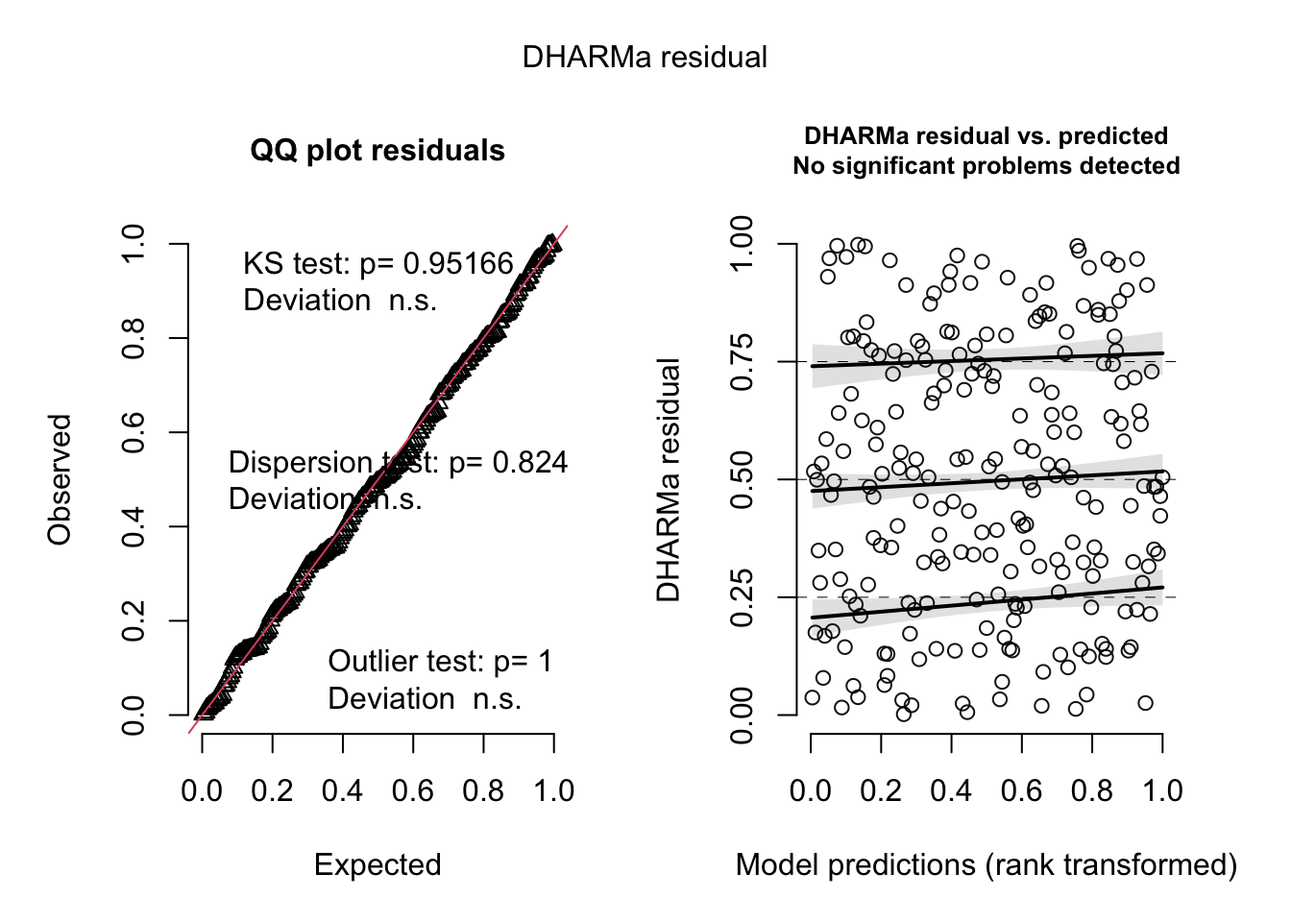
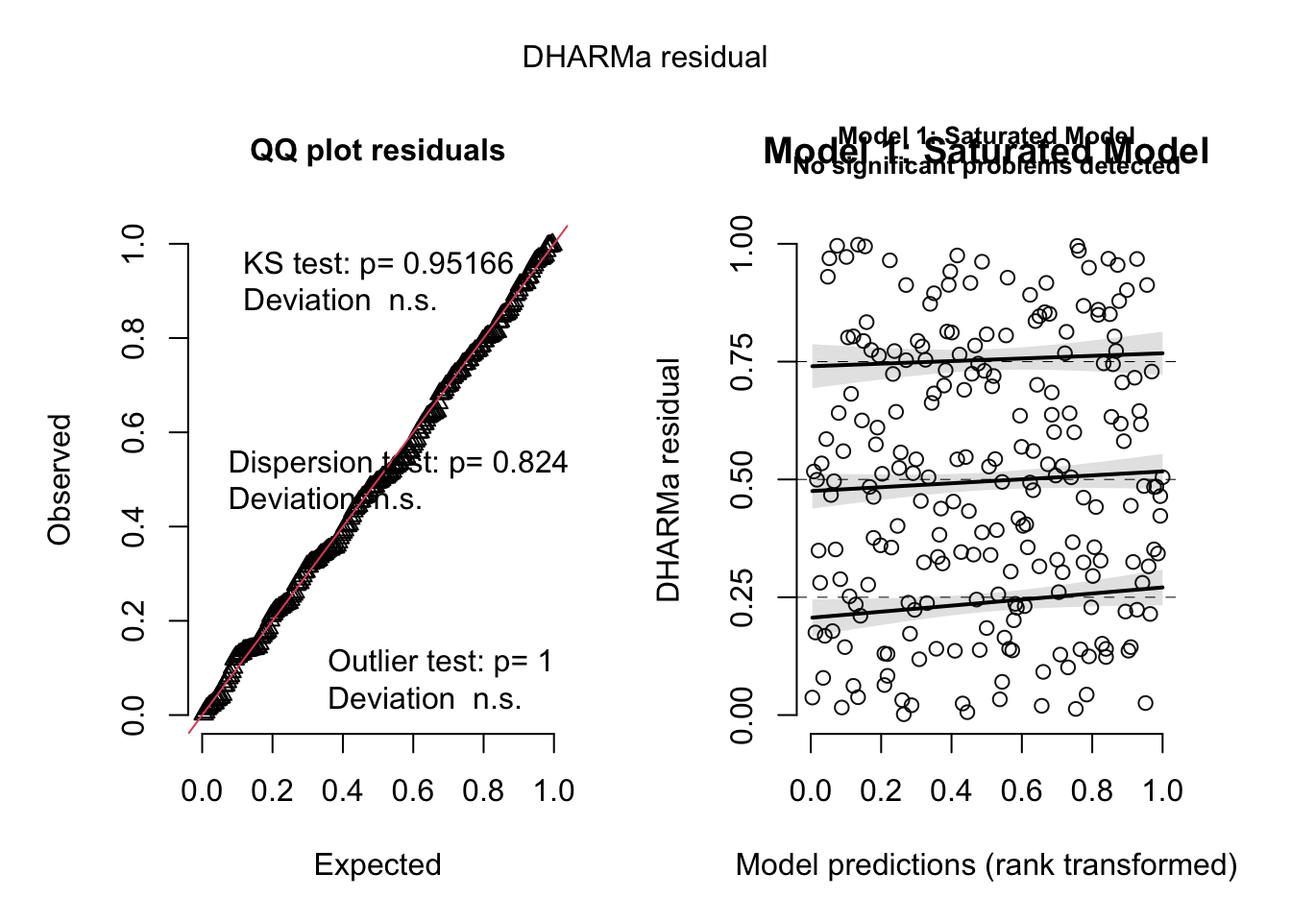
added observations to problem three visualization

Changed region(s): [[0.5938, 0.125, 0.9375, 0.1875]]

diff --git a/Code/index.html b/Code/index.html
@@ -7,7 +7,7 @@
 <meta name="viewport" content="width=device-width, initial-scale=1.0, user-scalable=yes">
 
 <meta name="author" content="Wyatt Erickson">
-<meta name="dcterms.date" content="2025-06-08">
+<meta name="dcterms.date" content="2025-06-10">
 
 <title>ENVS-193DS Final</title>
 <style>
@@ -134,7 +134,7 @@ pre > code.sourceCode > span > a:first-child::before { text-decoration: underlin
     <div>
     <div class="quarto-title-meta-heading">Published</div>
     <div class="quarto-title-meta-contents">
-      <p class="date">June 8, 2025</p>
+      <p class="date">June 10, 2025</p>
     </div>
   </div>
   
@@ -202,11 +202,11 @@ pre > code.sourceCode > span > a:first-child::before { text-decoration: underlin
 <pre><code># A tibble: 5 × 3
   year  month mean_monthly_sst
   &lt;fct&gt; &lt;ord&gt;            &lt;dbl&gt;
-1 2019  Oct               17.1
-2 2021  Jun               15.9
-3 2023  Nov               16.8
-4 2021  May               14.4
-5 2018  May               13.6</code></pre>
+1 2019  Jan               14.7
+2 2021  Sep               17.1
+3 2021  Jun               15.9
+4 2018  Apr               12.8
+5 2019  Sep               18.8</code></pre>
 </div>
 <div class="sourceCode cell-code" id="cb4"><pre class="sourceCode r code-with-copy"><code class="sourceCode r"><span id="cb4-1"><a href="#cb4-1" aria-hidden="true" tabindex="-1"></a><span class="fu">str</span>(sst_clean) <span class="co"># show data frame structure</span></span></code><button title="Copy to Clipboard" class="code-copy-button"><i class="bi"></i></button></pre></div>
 <div class="cell-output cell-output-stdout">
@@ -345,7 +345,7 @@ pre > code.sourceCode > span > a:first-child::before { text-decoration: underlin
 <h3 class="anchored" data-anchor-id="f.-check-the-diagnostics">f.&nbsp;Check the Diagnostics</h3>
 <div class="cell">
 <div class="sourceCode cell-code" id="cb8"><pre class="sourceCode r code-with-copy"><code class="sourceCode r"><span id="cb8-1"><a href="#cb8-1" aria-hidden="true" tabindex="-1"></a><span class="co"># show residual plots</span></span>
-<span id="cb8-2"><a href="#cb8-2" aria-hidden="true" tabindex="-1"></a><span class="fu">plot</span>(<span class="fu">simulateResiduals</span>(model0)) <span class="co"># residuals for null model</span></span></code><button title="Copy to Clipboard" class="code-copy-button"><i class="bi"></i></button></pre></div>
+<span id="cb8-2"><a href="#cb8-2" aria-hidden="true" tabindex="-1"></a><span class="fu">plot</span>(<span class="fu">simulateResiduals</span>(model0), <span class="at">main =</span> <span class="st">"Model 0: Null Model"</span>) <span class="co"># residuals for null model</span></span></code><button title="Copy to Clipboard" class="code-copy-button"><i class="bi"></i></button></pre></div>
 <div class="cell-output-display">
 <div>
 <figure class="figure">
@@ -353,7 +353,7 @@ pre > code.sourceCode > span > a:first-child::before { text-decoration: underlin
 </figure>
 </div>
 </div>
-<div class="sourceCode cell-code" id="cb9"><pre class="sourceCode r code-with-copy"><code class="sourceCode r"><span id="cb9-1"><a href="#cb9-1" aria-hidden="true" tabindex="-1"></a><span class="fu">plot</span>(<span class="fu">simulateResiduals</span>(model1)) <span class="co"># residuals for saturated model</span></span></code><button title="Copy to Clipboard" class="code-copy-button"><i class="bi"></i></button></pre></div>
+<div class="sourceCode cell-code" id="cb9"><pre class="sourceCode r code-with-copy"><code class="sourceCode r"><span id="cb9-1"><a href="#cb9-1" aria-hidden="true" tabindex="-1"></a><span class="fu">plot</span>(<span class="fu">simulateResiduals</span>(model1), <span class="at">main =</span> <span class="st">"Model 1: Saturated Model"</span>) <span class="co"># residuals for saturated model</span></span></code><button title="Copy to Clipboard" class="code-copy-button"><i class="bi"></i></button></pre></div>
 <div class="cell-output-display">
 <div>
 <figure class="figure">
@@ -361,7 +361,7 @@ pre > code.sourceCode > span > a:first-child::before { text-decoration: underlin
 </figure>
 </div>
 </div>
-<div class="sourceCode cell-code" id="cb10"><pre class="sourceCode r code-with-copy"><code class="sourceCode r"><span id="cb10-1"><a href="#cb10-1" aria-hidden="true" tabindex="-1"></a><span class="fu">plot</span>(<span class="fu">simulateResiduals</span>(model2)) <span class="co"># residuals for season predictor only model</span></span></code><button title="Copy to Clipboard" class="code-copy-button"><i class="bi"></i></button></pre></div>
+<div class="sourceCode cell-code" id="cb10"><pre class="sourceCode r code-with-copy"><code class="sourceCode r"><span id="cb10-1"><a href="#cb10-1" aria-hidden="true" tabindex="-1"></a><span class="fu">plot</span>(<span class="fu">simulateResiduals</span>(model2), <span class="at">main =</span> <span class="st">"Model 2: Season Predictor Only"</span>) <span class="co"># residuals for season predictor only model</span></span></code><button title="Copy to Clipboard" class="code-copy-button"><i class="bi"></i></button></pre></div>
 <div class="cell-output-display">
 <div>
 <figure class="figure">
@@ -369,7 +369,7 @@ pre > code.sourceCode > span > a:first-child::before { text-decoration: underlin
 </figure>
 </div>
 </div>
-<div class="sourceCode cell-code" id="cb11"><pre class="sourceCode r code-with-copy"><code class="sourceCode r"><span id="cb11-1"><a href="#cb11-1" aria-hidden="true" tabindex="-1"></a><span class="fu">plot</span>(<span class="fu">simulateResiduals</span>(model3)) <span class="co"># residuals for forest distance only model</span></span></code><button title="Copy to Clipboard" class="code-copy-button"><i class="bi"></i></button></pre></div>
+<div class="sourceCode cell-code" id="cb11"><pre class="sourceCode r code-with-copy"><code class="sourceCode r"><span id="cb11-1"><a href="#cb11-1" aria-hidden="true" tabindex="-1"></a><span class="fu">plot</span>(<span class="fu">simulateResiduals</span>(model3), <span class="at">main =</span> <span class="st">"Model 3: Forest Distance Predictor Only"</span>) <span class="co"># residuals for forest distance only model</span></span></code><button title="Copy to Clipboard" class="code-copy-button"><i class="bi"></i></button></pre></div>
 <div class="cell-output-display">
 <div>
 <figure class="figure">
@@ -402,41 +402,59 @@ model0  1 238.8318</code></pre>
 <div class="cell">
 <div class="sourceCode cell-code" id="cb14"><pre class="sourceCode r code-with-copy"><code class="sourceCode r"><span id="cb14-1"><a href="#cb14-1" aria-hidden="true" tabindex="-1"></a>sp_preds <span class="ot">&lt;-</span> <span class="fu">ggpredict</span>(</span>
 <span id="cb14-2"><a href="#cb14-2" aria-hidden="true" tabindex="-1"></a>  model1,     <span class="co"># choose which model to use</span></span>
-<span id="cb14-3"><a href="#cb14-3" aria-hidden="true" tabindex="-1"></a>  <span class="at">terms =</span> <span class="fu">c</span>(<span class="st">"edge_distance"</span>,<span class="st">"season"</span>) <span class="co"># select predictors</span></span>
-<span id="cb14-4"><a href="#cb14-4" aria-hidden="true" tabindex="-1"></a>)</span>
-<span id="cb14-5"><a href="#cb14-5" aria-hidden="true" tabindex="-1"></a></span>
-<span id="cb14-6"><a href="#cb14-6" aria-hidden="true" tabindex="-1"></a>sp_preds_clean <span class="ot">&lt;-</span> sp_preds <span class="sc">|&gt;</span> <span class="co"># clean column names</span></span>
-<span id="cb14-7"><a href="#cb14-7" aria-hidden="true" tabindex="-1"></a>  <span class="fu">clean_names</span>()</span>
+<span id="cb14-3"><a href="#cb14-3" aria-hidden="true" tabindex="-1"></a>  <span class="at">terms =</span> <span class="fu">c</span>(<span class="st">"edge_distance"</span>,<span class="st">"season"</span>)) <span class="co"># select predictors</span></span>
+<span id="cb14-4"><a href="#cb14-4" aria-hidden="true" tabindex="-1"></a>sp_preds_clean <span class="ot">&lt;-</span> sp_preds <span class="sc">|&gt;</span> <span class="co"># clean column names</span></span>
+<span id="cb14-5"><a href="#cb14-5" aria-hidden="true" tabindex="-1"></a>  <span class="fu">clean_names</span>() <span class="sc">|&gt;</span> </span>
+<span id="cb14-6"><a href="#cb14-6" aria-hidden="true" tabindex="-1"></a>  <span class="fu">rename</span>(<span class="at">season =</span> group)</span>
+<span id="cb14-7"><a href="#cb14-7" aria-hidden="true" tabindex="-1"></a></span>
 <span id="cb14-8"><a href="#cb14-8" aria-hidden="true" tabindex="-1"></a></span>
-<span id="cb14-9"><a href="#cb14-9" aria-hidden="true" tabindex="-1"></a><span class="fu">ggplot</span>(sp_preds_clean, <span class="fu">aes</span>(<span class="at">x =</span> x,   <span class="co"># create plot and define axis as probability and distance from forest edge</span></span>
-<span id="cb14-10"><a href="#cb14-10" aria-hidden="true" tabindex="-1"></a>                     <span class="at">y =</span> predicted <span class="sc">*</span> <span class="dv">100</span>,  <span class="co"># y axis is predicted probability x 100 (% format)</span></span>
-<span id="cb14-11"><a href="#cb14-11" aria-hidden="true" tabindex="-1"></a>                     <span class="at">color =</span> group, <span class="co"># color by group</span></span>
-<span id="cb14-12"><a href="#cb14-12" aria-hidden="true" tabindex="-1"></a>                     <span class="at">fill =</span> group)) <span class="sc">+</span> <span class="co"># fill color by group</span></span>
-<span id="cb14-13"><a href="#cb14-13" aria-hidden="true" tabindex="-1"></a>   <span class="fu">geom_ribbon</span>(<span class="at">data =</span> sp_preds_clean, <span class="at">alpha =</span> <span class="fl">0.2</span>, <span class="at">color =</span> <span class="cn">NA</span>,</span>
-<span id="cb14-14"><a href="#cb14-14" aria-hidden="true" tabindex="-1"></a>              <span class="fu">aes</span>(<span class="at">ymin =</span> conf_low <span class="sc">*</span> <span class="dv">100</span>, <span class="co"># confidence interval boundary, adjusted for %</span></span>
-<span id="cb14-15"><a href="#cb14-15" aria-hidden="true" tabindex="-1"></a>                  <span class="at">ymax =</span> conf_high <span class="sc">*</span> <span class="dv">100</span>, <span class="co"># confidence interval boundary, adjusted for %</span></span>
-<span id="cb14-16"><a href="#cb14-16" aria-hidden="true" tabindex="-1"></a>                  <span class="at">fill =</span> group</span>
-<span id="cb14-17"><a href="#cb14-17" aria-hidden="true" tabindex="-1"></a>                  )) <span class="sc">+</span></span>
-<span id="cb14-18"><a href="#cb14-18" aria-hidden="true" tabindex="-1"></a>   <span class="fu">geom_point</span>(<span class="at">size =</span> <span class="fl">1.5</span>, <span class="co"># add circular points</span></span>
-<span id="cb14-19"><a href="#cb14-19" aria-hidden="true" tabindex="-1"></a>             <span class="at">shape =</span> <span class="dv">16</span>) <span class="sc">+</span></span>
-<span id="cb14-20"><a href="#cb14-20" aria-hidden="true" tabindex="-1"></a>   <span class="fu">geom_line</span>(<span class="at">size =</span> <span class="dv">1</span>) <span class="sc">+</span> <span class="co"># add line connecting points</span></span>
-<span id="cb14-21"><a href="#cb14-21" aria-hidden="true" tabindex="-1"></a>   <span class="fu">labs</span>(</span>
-<span id="cb14-22"><a href="#cb14-22" aria-hidden="true" tabindex="-1"></a>     <span class="at">x =</span> <span class="st">"Distance From the Forest Edge (meters)"</span>, <span class="co"># set x axis</span></span>
-<span id="cb14-23"><a href="#cb14-23" aria-hidden="true" tabindex="-1"></a>     <span class="at">y =</span> <span class="st">"Probability of Swift Parrot Occupying Nest Box (%)"</span>, <span class="co"># set y axis</span></span>
-<span id="cb14-24"><a href="#cb14-24" aria-hidden="true" tabindex="-1"></a>     <span class="at">color =</span> <span class="st">"Season"</span>, <span class="co"># set legend title</span></span>
-<span id="cb14-25"><a href="#cb14-25" aria-hidden="true" tabindex="-1"></a>     <span class="at">fill =</span> <span class="st">"Season"</span> <span class="co"># set legend title</span></span>
-<span id="cb14-26"><a href="#cb14-26" aria-hidden="true" tabindex="-1"></a>   ) <span class="sc">+</span></span>
-<span id="cb14-27"><a href="#cb14-27" aria-hidden="true" tabindex="-1"></a>   <span class="fu">scale_color_manual</span>(<span class="at">values =</span> <span class="fu">c</span>(  <span class="co"># set colors for lines and points</span></span>
-<span id="cb14-28"><a href="#cb14-28" aria-hidden="true" tabindex="-1"></a>    <span class="st">"2016"</span> <span class="ot">=</span> <span class="st">"#008000"</span>,</span>
-<span id="cb14-29"><a href="#cb14-29" aria-hidden="true" tabindex="-1"></a>    <span class="st">"2019"</span> <span class="ot">=</span> <span class="st">"#B7410E"</span>)) <span class="sc">+</span> </span>
-<span id="cb14-30"><a href="#cb14-30" aria-hidden="true" tabindex="-1"></a>   <span class="fu">scale_fill_manual</span>(<span class="at">values =</span> <span class="fu">c</span>(  <span class="co"># set colors for CI ribbon</span></span>
-<span id="cb14-31"><a href="#cb14-31" aria-hidden="true" tabindex="-1"></a>    <span class="st">"2016"</span> <span class="ot">=</span> <span class="st">"#008000"</span>,</span>
-<span id="cb14-32"><a href="#cb14-32" aria-hidden="true" tabindex="-1"></a>    <span class="st">"2019"</span> <span class="ot">=</span> <span class="st">"#B7410E"</span>)) <span class="sc">+</span> </span>
-<span id="cb14-33"><a href="#cb14-33" aria-hidden="true" tabindex="-1"></a>   <span class="fu">theme_bw</span>() <span class="sc">+</span> <span class="co"># set theme</span></span>
-<span id="cb14-34"><a href="#cb14-34" aria-hidden="true" tabindex="-1"></a>   <span class="fu">theme</span>(  <span class="co"># remove background and panel grids</span></span>
-<span id="cb14-35"><a href="#cb14-35" aria-hidden="true" tabindex="-1"></a>     <span class="at">panel.background =</span> <span class="fu">element_blank</span>(),</span>
-<span id="cb14-36"><a href="#cb14-36" aria-hidden="true" tabindex="-1"></a>     <span class="at">panel.grid =</span> <span class="fu">element_blank</span>()</span>
-<span id="cb14-37"><a href="#cb14-37" aria-hidden="true" tabindex="-1"></a>   )</span></code><button title="Copy to Clipboard" class="code-copy-button"><i class="bi"></i></button></pre></div>
+<span id="cb14-9"><a href="#cb14-9" aria-hidden="true" tabindex="-1"></a><span class="co"># code to include observed data for 2016 as underlying data</span></span>
+<span id="cb14-10"><a href="#cb14-10" aria-hidden="true" tabindex="-1"></a>observations_2016 <span class="ot">&lt;-</span> clean_nest_boxes <span class="sc">|&gt;</span>   <span class="co"># create new data frame to view data points of interest</span></span>
+<span id="cb14-11"><a href="#cb14-11" aria-hidden="true" tabindex="-1"></a>  <span class="fu">filter</span>(sp <span class="sc">==</span> <span class="dv">1</span>, season <span class="sc">==</span> <span class="st">"2016"</span>)  <span class="co"># only select 2016 observations where swift parrot was present</span></span>
+<span id="cb14-12"><a href="#cb14-12" aria-hidden="true" tabindex="-1"></a>observations_2016_prob <span class="ot">&lt;-</span> <span class="fu">ggpredict</span>(model1,    <span class="co"># running observed 2016 distances through model</span></span>
+<span id="cb14-13"><a href="#cb14-13" aria-hidden="true" tabindex="-1"></a>                 <span class="at">terms =</span> <span class="fu">c</span>(<span class="st">"edge_distance [715,735,145,105,416,435,355,296,355,392,476,259,277,278,183,218,695,745,48,122,71,190,253,270,228,282,115,114,167]"</span>, <span class="st">"season"</span> )) <span class="sc">|&gt;</span> <span class="co"># use all observed distances, n = small enough where I can type in each individually</span></span>
+<span id="cb14-14"><a href="#cb14-14" aria-hidden="true" tabindex="-1"></a>  <span class="fu">filter</span>(group <span class="sc">==</span> <span class="st">"2016"</span>) <span class="sc">|&gt;</span> <span class="co"># only include 2016 probabilities, to not plot points that were not seen in the field</span></span>
+<span id="cb14-15"><a href="#cb14-15" aria-hidden="true" tabindex="-1"></a>  <span class="fu">rename</span>(<span class="at">season =</span> group) <span class="co"># rename group column to be included in ggplot</span></span>
+<span id="cb14-16"><a href="#cb14-16" aria-hidden="true" tabindex="-1"></a></span>
+<span id="cb14-17"><a href="#cb14-17" aria-hidden="true" tabindex="-1"></a><span class="co"># code to include observed data for 2019 as underlying data</span></span>
+<span id="cb14-18"><a href="#cb14-18" aria-hidden="true" tabindex="-1"></a>observations_2019 <span class="ot">&lt;-</span> clean_nest_boxes <span class="sc">|&gt;</span>  <span class="co"># create new data frame</span></span>
+<span id="cb14-19"><a href="#cb14-19" aria-hidden="true" tabindex="-1"></a>  <span class="fu">filter</span>(sp <span class="sc">==</span> <span class="dv">1</span>, season <span class="sc">==</span> <span class="st">"2019"</span>)  <span class="co"># only select 2019 observations where swift parrot was present</span></span>
+<span id="cb14-20"><a href="#cb14-20" aria-hidden="true" tabindex="-1"></a>observations_2019_prob <span class="ot">&lt;-</span> <span class="fu">ggpredict</span>(model1,</span>
+<span id="cb14-21"><a href="#cb14-21" aria-hidden="true" tabindex="-1"></a>                  <span class="at">terms =</span> <span class="fu">c</span>(<span class="st">"edge_distance [774,715,749,97,130,105,529,794,29,253,370,435,392,309,250,731,14,7,141,118]"</span>, <span class="st">"season"</span>)) <span class="sc">|&gt;</span>   <span class="co"># use observed 2019 distances</span></span>
+<span id="cb14-22"><a href="#cb14-22" aria-hidden="true" tabindex="-1"></a>  <span class="fu">filter</span>(group <span class="sc">==</span> <span class="st">"2019"</span>) <span class="sc">|&gt;</span>  <span class="co"># only include 2019 values</span></span>
+<span id="cb14-23"><a href="#cb14-23" aria-hidden="true" tabindex="-1"></a>  <span class="fu">rename</span>(<span class="at">season =</span> group) <span class="co"># rename column to be included</span></span>
+<span id="cb14-24"><a href="#cb14-24" aria-hidden="true" tabindex="-1"></a></span>
+<span id="cb14-25"><a href="#cb14-25" aria-hidden="true" tabindex="-1"></a><span class="fu">ggplot</span>(sp_preds_clean, <span class="fu">aes</span>(<span class="at">x =</span> x,   <span class="co"># create plot and define axis as probability and distance from forest edge</span></span>
+<span id="cb14-26"><a href="#cb14-26" aria-hidden="true" tabindex="-1"></a>                     <span class="at">y =</span> predicted <span class="sc">*</span> <span class="dv">100</span>,  <span class="co"># y axis is predicted probability x 100 (% format)</span></span>
+<span id="cb14-27"><a href="#cb14-27" aria-hidden="true" tabindex="-1"></a>                     <span class="at">color =</span> season, <span class="co"># color by group</span></span>
+<span id="cb14-28"><a href="#cb14-28" aria-hidden="true" tabindex="-1"></a>                     <span class="at">fill =</span> season)) <span class="sc">+</span> <span class="co"># fill color by group</span></span>
+<span id="cb14-29"><a href="#cb14-29" aria-hidden="true" tabindex="-1"></a>   <span class="fu">geom_ribbon</span>(<span class="at">alpha =</span> <span class="fl">0.2</span>, <span class="at">color =</span> <span class="cn">NA</span>,</span>
+<span id="cb14-30"><a href="#cb14-30" aria-hidden="true" tabindex="-1"></a>              <span class="fu">aes</span>(<span class="at">ymin =</span> conf_low <span class="sc">*</span> <span class="dv">100</span>, <span class="co"># confidence interval boundary, adjusted for %</span></span>
+<span id="cb14-31"><a href="#cb14-31" aria-hidden="true" tabindex="-1"></a>                  <span class="at">ymax =</span> conf_high <span class="sc">*</span> <span class="dv">100</span>, <span class="co"># confidence interval boundary, adjusted for %</span></span>
+<span id="cb14-32"><a href="#cb14-32" aria-hidden="true" tabindex="-1"></a>                  <span class="at">fill =</span> season</span>
+<span id="cb14-33"><a href="#cb14-33" aria-hidden="true" tabindex="-1"></a>                  )) <span class="sc">+</span></span>
+<span id="cb14-34"><a href="#cb14-34" aria-hidden="true" tabindex="-1"></a>   <span class="fu">geom_line</span>(<span class="at">size =</span> <span class="dv">1</span>) <span class="sc">+</span> <span class="co"># add line for predictions</span></span>
+<span id="cb14-35"><a href="#cb14-35" aria-hidden="true" tabindex="-1"></a>   <span class="fu">geom_point</span>(<span class="at">data =</span> observations_2016_prob, <span class="at">size =</span> <span class="dv">2</span>, <span class="co"># add circular points for observations</span></span>
+<span id="cb14-36"><a href="#cb14-36" aria-hidden="true" tabindex="-1"></a>             <span class="at">shape =</span> <span class="dv">16</span>) <span class="sc">+</span></span>
+<span id="cb14-37"><a href="#cb14-37" aria-hidden="true" tabindex="-1"></a>   <span class="fu">geom_point</span>(<span class="at">data =</span> observations_2019_prob, <span class="at">size =</span> <span class="dv">2</span>, <span class="co"># add circular points for observations</span></span>
+<span id="cb14-38"><a href="#cb14-38" aria-hidden="true" tabindex="-1"></a>             <span class="at">shape =</span> <span class="dv">16</span>) <span class="sc">+</span></span>
+<span id="cb14-39"><a href="#cb14-39" aria-hidden="true" tabindex="-1"></a>   <span class="fu">labs</span>(</span>
+<span id="cb14-40"><a href="#cb14-40" aria-hidden="true" tabindex="-1"></a>     <span class="at">x =</span> <span class="st">"Distance From the Forest Edge (meters)"</span>, <span class="co"># set x axis</span></span>
+<span id="cb14-41"><a href="#cb14-41" aria-hidden="true" tabindex="-1"></a>     <span class="at">y =</span> <span class="st">"Probability of Swift Parrot Occupying Nest Box (%)"</span>, <span class="co"># set y axis</span></span>
+<span id="cb14-42"><a href="#cb14-42" aria-hidden="true" tabindex="-1"></a>     <span class="at">color =</span> <span class="st">"Season"</span>, <span class="co"># set legend title</span></span>
+<span id="cb14-43"><a href="#cb14-43" aria-hidden="true" tabindex="-1"></a>     <span class="at">fill =</span> <span class="st">"Season"</span> <span class="co"># set legend title</span></span>
+<span id="cb14-44"><a href="#cb14-44" aria-hidden="true" tabindex="-1"></a>   ) <span class="sc">+</span></span>
+<span id="cb14-45"><a href="#cb14-45" aria-hidden="true" tabindex="-1"></a>   <span class="fu">scale_color_manual</span>(<span class="at">values =</span> <span class="fu">c</span>(  <span class="co"># set colors for lines and points</span></span>
+<span id="cb14-46"><a href="#cb14-46" aria-hidden="true" tabindex="-1"></a>    <span class="st">"2016"</span> <span class="ot">=</span> <span class="st">"#008000"</span>,</span>
+<span id="cb14-47"><a href="#cb14-47" aria-hidden="true" tabindex="-1"></a>    <span class="st">"2019"</span> <span class="ot">=</span> <span class="st">"#B7410E"</span>)) <span class="sc">+</span> </span>
+<span id="cb14-48"><a href="#cb14-48" aria-hidden="true" tabindex="-1"></a>   <span class="fu">scale_fill_manual</span>(<span class="at">values =</span> <span class="fu">c</span>(  <span class="co"># set colors for CI ribbon</span></span>
+<span id="cb14-49"><a href="#cb14-49" aria-hidden="true" tabindex="-1"></a>    <span class="st">"2016"</span> <span class="ot">=</span> <span class="st">"#008000"</span>,</span>
+<span id="cb14-50"><a href="#cb14-50" aria-hidden="true" tabindex="-1"></a>    <span class="st">"2019"</span> <span class="ot">=</span> <span class="st">"#B7410E"</span>)) <span class="sc">+</span> </span>
+<span id="cb14-51"><a href="#cb14-51" aria-hidden="true" tabindex="-1"></a>   <span class="fu">theme_bw</span>() <span class="sc">+</span> <span class="co"># set theme</span></span>
+<span id="cb14-52"><a href="#cb14-52" aria-hidden="true" tabindex="-1"></a>   <span class="fu">theme</span>(  <span class="co"># remove background and panel grids</span></span>
+<span id="cb14-53"><a href="#cb14-53" aria-hidden="true" tabindex="-1"></a>     <span class="at">panel.background =</span> <span class="fu">element_blank</span>(),</span>
+<span id="cb14-54"><a href="#cb14-54" aria-hidden="true" tabindex="-1"></a>     <span class="at">panel.grid =</span> <span class="fu">element_blank</span>()</span>
+<span id="cb14-55"><a href="#cb14-55" aria-hidden="true" tabindex="-1"></a>   )</span></code><button title="Copy to Clipboard" class="code-copy-button"><i class="bi"></i></button></pre></div>
 <div class="cell-output-display">
 <div>
 <figure class="figure">
@@ -448,7 +466,7 @@ model0  1 238.8318</code></pre>
 </section>
 <section id="i.-figure-caption" class="level3">
 <h3 class="anchored" data-anchor-id="i.-figure-caption">i. Figure Caption</h3>
-<p>[Figure 1]: <strong>Swift Parrot nest box occupancy depending on season and distance from forest edge</strong>- Figure shows the probability that a swift parrot will occupy a nesting box (%), calculated from a generalized linear model. Green line and circles represent predicted probability that a parrot will occupy a box at x meters from the forest edge for the 2016 season. Orange line and circles represent predicted probability that a parrot will occupy a box at x meters from the forest edge for the 2019 season. Shaded ribbons represent 95% confidence interval for the respective colored lines. Graph shows that there is a nonlinear negative association between probability of occupation and distance from forest edge. Also, on average, the 2016 season had a higher probability than the 2019 season of swift parrots occupying nesting boxes. Data sourced from Stojanovic, Dejan et al.&nbsp;(2021). Do nest boxes breed the target species or its competitors? A case study of a critically endangered bird [Dataset]. Dryad.&nbsp;<a href="https://doi.org/10.5061/dryad.83bk3j9sb" class="uri">https://doi.org/10.5061/dryad.83bk3j9sb</a></p>
+<p>[Figure 1]: <strong>Predicted and observed Swift Parrot nest box occupancy in relation to season and distance from forest edge</strong>- Figure shows the predicted probability that a swift parrot will occupy a nesting box (%), calculated from a generalized linear model. Green line represents the predicted probability that a parrot will occupy a box at x meters from the forest edge for the 2016 season, and green circles represent a 2016 observation from the original dataset at that distance from teh forest edge. Orange line represent predicted probability that a parrot will occupy a box at x meters from the forest edge for the 2019 season, and orange circles represent a 2019 observation at that distance from the forest edge. Shaded ribbons represent 95% confidence interval for the respective colored lines. Graph shows that there is a nonlinear negative association between probability of occupation and distance from forest edge. On average, the 2016 season had a higher probability than the 2019 season of swift parrots occupying nesting boxes. Data sourced from Stojanovic, Dejan et al.&nbsp;(2021). Do nest boxes breed the target species or its competitors? A case study of a critically endangered bird [Dataset]. Dryad.&nbsp;<a href="https://doi.org/10.5061/dryad.83bk3j9sb" class="uri">https://doi.org/10.5061/dryad.83bk3j9sb</a></p>
 </section>
 <section id="j.-calculate-model-predictions" class="level3">
 <h3 class="anchored" data-anchor-id="j.-calculate-model-predictions">j. Calculate Model Predictions</h3>
@@ -479,7 +497,7 @@ edge_distance | Predicted |     95% CI
 </section>
 <section id="k.-interpret-your-results" class="level3">
 <h3 class="anchored" data-anchor-id="k.-interpret-your-results">k. Interpret Your Results</h3>
-<p>In the 2016 season with newly placed nest boxes, the probability of Swift Parrot occupancy (calculated in part j) was 48% [95% confidence interval: 33%, 6%] at 0 meters from the forest edge and 12% [95% confidence interval: 6%, 24%] at 900 meters from the edge, compared to the 2019 season with a 30% [95% confidence interval: 18%, 44%] chance of occupancy at 0 meters and a 6% [95% confidence interval: 3%, 13%] chance at 900 meters from the forest edge. The predictions made above in Figure 1 show a negative nonlinear association between distance from the forest edge and probability of occupancy, meaning the probability drops with increasing distance from the forest edge. Models for the common starling showed a similar negative association, and a model in the original article shows an opposite association for tree marlins. The decrease in swift parrot occupancy from 2016 to 2019 can be explained by trends in the common starling, where they drastically increase their presence in nest boxes once the boxes have sat for a few years. The inverse relationship between swift parrot occupancy and tree marlin occupancy suggests that the reason swift parrot occupancy drops further into the forest is because many nest boxes are first taken by tree marlins.</p>
+<p>In the 2016 season with newly placed nest boxes, the probability of Swift Parrot occupancy (calculated in part j) was 48% [95% confidence interval: 33%, 6%] at 0 meters from the forest edge and 12% [95% confidence interval: 6%, 24%] at 900 meters from the edge, compared to the 2019 season with a 30% [95% confidence interval: 18%, 44%] chance of occupancy at 0 meters and a 6% [95% confidence interval: 3%, 13%] chance at 900 meters from the forest edge, meaning that at both 0 meters and 900 meters a Swift Parrot is less likely to occupy a nesting box in 2019 compared to 2016. The predictions made above in Figure 1 show a negative nonlinear association between distance from the forest edge and probability of occupancy, meaning the probability of a Swift Parrot occupying a nest box drops with increasing distance from the forest edge. Models for the common starling showed a similar negative association with probability of occupancy decreasing with increased distance from forest edge, and a model in the original article shows an opposite association for tree marlins. The decrease in swift parrot occupancy from 2016 to 2019 can be explained by trends in the common starling, where they increase their presence in nest boxes once the boxes have sat for a few years. The inverse relationship between swift parrot occupancy and tree marlin occupancy, where the probability of occupancy for tree marlins rises with increasing distance from the forest edge, suggests that the reason swift parrot occupancy drops further into the forest is because many nest boxes are first taken by tree marlins.</p>
 </section>
 </section>
 <section id="problem-4.-affective-and-exploratory-visualizations" class="level2">
@@ -488,7 +506,7 @@ edge_distance | Predicted |     95% CI
 <h3 class="anchored" data-anchor-id="a.-comparing-visualizations">a. Comparing Visualizations</h3>
 <ul>
 <li><p>My first exploratory visualization represents mean values for water usage on days of the week through a jitterplot, while my final affective visualization utilizes a simple scatterplot, with volume of water plotted per day along the x-axis. My affective visualization also takes a more artistic approach to the data visualization, where you would need an artist statement to understand what is being represented, while my exploratory visualizations explicitly state what is shown in the figures.</p></li>
-<li><p>All of my visualizations compare all recorded values (at the time) for volume of water used in the trial period. Also, day of the week is included in some way in each visualization.</p></li>
+<li><p>All of my visualizations compare all recorded values (at the time) for volume of water used in the trial period, and factor in at-home usage. Also, day of the week is included as a variable in some way in each visualization.</p></li>
 <li><p>While my initial exploratory visualizations contain much less data than my final affective visualization, all visualizations show a higher mean water usage for wednesdays as compared to thursdays. However, the magnitude of this difference is shown to be larger in the initial exploratory visualizations. This is because of the lower n value and higher probability of skewed data points, with the data not yet described as normal by the central limit theorem.</p></li>
 <li><p>While I did not receive feedback during the week 9 workshop, I did have some improvements that I wanted to implement on my final affective visualization, along with my week 10 evaluations. One idea was to re-scale and stretch vertically the line connecting all points in my graph of water usage vs.&nbsp;date, which I did in adobe illustrator, in order to emphasize the differences between data points. Another idea was to add a mean line for each day of the week, but I did not do this because I did not feel like it looked good on the visualization, and wanted to avoid visual clutter.</p></li>
 </ul>
